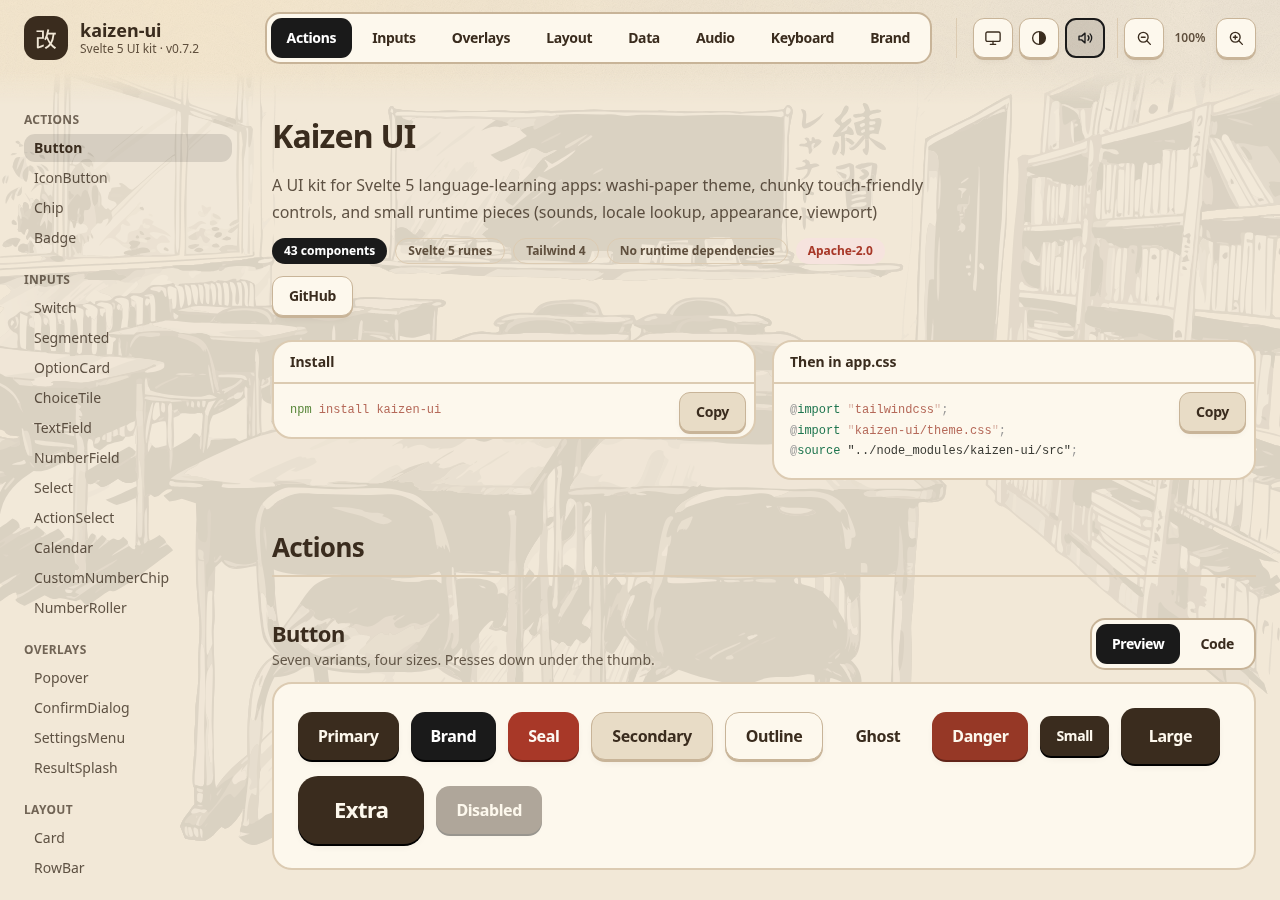
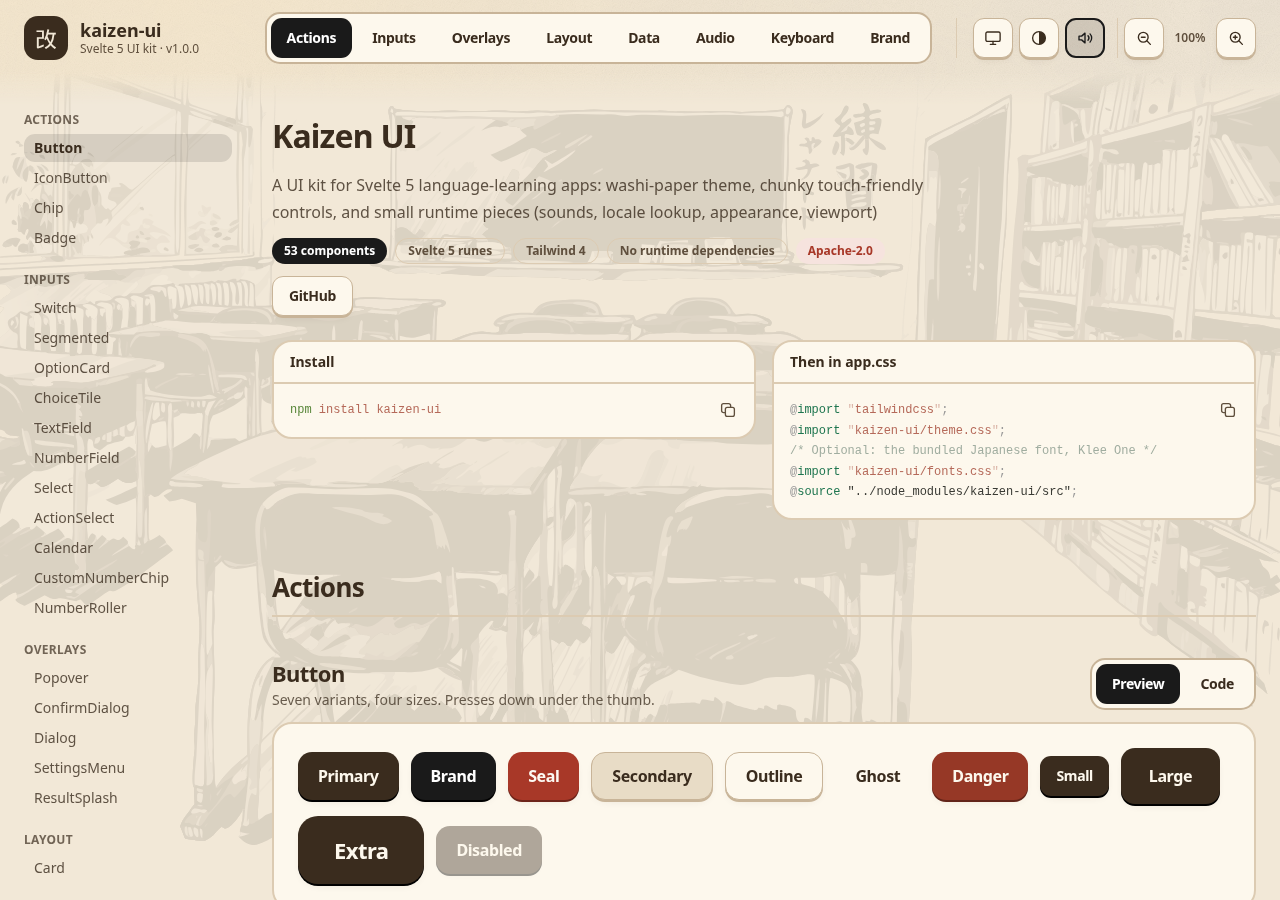
Updated docs and testcases, added new examples in docs. upodated screenshots

diff --git a/docs/src/demos/WoodTray.svelte b/docs/src/demos/WoodTray.svelte
@@ -1,33 +1,93 @@
 <script lang="ts">
-  import { Glyph, sfx, WoodTray, type TrayCell } from "kaizen-ui";
+  import { Glyph, sfx, Strokes, WoodTray, type TrayCell } from "kaizen-ui";
 
-  const pieces = ["亻", "木"];
-  let filled = $state([false, false]);
-  let selected = $state(0);
+  type Piece = { face: string; rect: TrayCell["rect"]; strokes?: string[] };
 
-  const cells = $derived<TrayCell[]>(
-    pieces.map((piece, index) => ({
-      rect: [index * 2, 0, 2, 4],
-      label: `${piece}, ${filled[index] ? "placed" : "empty"}`,
-      filled: filled[index],
-      selected: selected === index
-    }))
-  );
+  // Side by side, a split side, and an enclosure with its inner piece nested
+  // inside it: the smaller slot sits on top of the larger one.
+  // `clear` drops the highlight once the tray is full, so nothing sits over
+  // the finished glyph as it assembles.
+  const puzzles: { glyph: string; caption: string; pieces: Piece[]; clear?: boolean }[] = [
+    {
+      glyph: "休",
+      caption: "left and right",
+      pieces: [
+        { face: "亻", rect: [0, 0, 2, 4] },
+        { face: "木", rect: [2, 0, 2, 4] }
+      ]
+    },
+    {
+      glyph: "語",
+      caption: "split side, highlight clears when done",
+      clear: true,
+      pieces: [
+        { face: "言", rect: [0, 0, 2, 4] },
+        { face: "五", rect: [2, 0, 2, 2] },
+        { face: "口", rect: [2, 2, 2, 2] }
+      ]
+    },
+    {
+      glyph: "国",
+      caption: "nested",
+      pieces: [
+        // No font draws 囗 as a frame the size of the tray, so brush it.
+        {
+          face: "囗",
+          rect: [0, 0, 4, 4],
+          strokes: ["M12,12V88", "M12,12H88V88", "M12,88H88"]
+        },
+        { face: "玉", rect: [1, 1, 2, 2] }
+      ]
+    }
+  ];
 
-  function press(index: number): void {
-    filled = filled.map((value, at) => (at === index ? !value : value));
-    selected = index;
-    if (filled[index]) sfx.wood.place();
+  let filled = $state(puzzles.map((puzzle) => puzzle.pieces.map(() => false)));
+  let selected = $state(puzzles.map(() => 0));
+
+  const done = (at: number): boolean => filled[at].every(Boolean);
+
+  function cellsOf(at: number): TrayCell[] {
+    const hide = puzzles[at].clear === true && done(at);
+    return puzzles[at].pieces.map((piece, index) => ({
+      rect: piece.rect,
+      label: `${piece.face}, ${filled[at][index] ? "placed" : "empty"}`,
+      filled: filled[at][index],
+      selected: !hide && selected[at] === index
+    }));
+  }
+
+  function press(at: number, index: number): void {
+    filled[at][index] = !filled[at][index];
+    selected[at] = index;
+    if (filled[at][index]) sfx.wood.place();
     else sfx.wood.lift();
-    if (filled.every(Boolean)) sfx.wood.done();
+    if (done(at)) sfx.wood.done();
   }
 </script>
 
-<WoodTray label="休" {cells} done={filled.every(Boolean)} class="w-40" onslot={press}>
-  {#snippet cell(index)}
-    <Glyph text={pieces[index]} class="text-h2" />
-  {/snippet}
-  {#snippet glyph()}
-    <Glyph text="休" class="text-[6rem] leading-none" />
-  {/snippet}
-</WoodTray>
+<div class="flex flex-wrap items-start gap-4">
+  {#each puzzles as puzzle, at (puzzle.glyph)}
+    <figure class="flex flex-col items-center gap-2">
+      <WoodTray
+        label={puzzle.glyph}
+        cells={cellsOf(at)}
+        done={done(at)}
+        class="w-40"
+        onslot={(index) => press(at, index)}
+      >
+        {#snippet cell(index)}
+          {@const piece = puzzle.pieces[index]}
+          {#if piece.strokes}
+            <Strokes strokes={piece.strokes} viewBox="0 0 100 100" class="size-full" />
+          {:else}
+            <Glyph text={piece.face} class="text-h2" />
+          {/if}
+        {/snippet}
+        {#snippet glyph()}
+          <Glyph text={puzzle.glyph} class="text-[6rem] leading-none" />
+        {/snippet}
+      </WoodTray>
+      <figcaption class="text-xs text-foreground/75">{puzzle.caption}</figcaption>
+    </figure>
+  {/each}
+</div>

diff --git a/docs/tests/behaviour.spec.js b/docs/tests/behaviour.spec.js
@@ -202,21 +202,27 @@ test("an answer tile carries its slot number and says how the answer went", asyn
   await expect(tiles.nth(1)).toHaveClass(/opacity-40/);
 });
 
-test("fitted text shrinks as the text gets longer and never wraps", async ({ page }) => {
-  const demo = await section(page, "fittext");
-  const fitted = demo.locator("span[style*='font-size']").first();
+test("board text stays on one line while short and wraps to fit once long", async ({ page }) => {
+  const demo = await section(page, "board");
+  const fitted = demo.locator("span[lang='ja'][style*='font-size']");
+  const short = fitted.nth(0);
+  const long = fitted.nth(1);
 
-  const size = async () =>
-    Number.parseFloat(await fitted.evaluate((node) => getComputedStyle(node).fontSize));
+  const size = async (text) =>
+    Number.parseFloat(await text.evaluate((node) => getComputedStyle(node).fontSize));
+  // Inside the room the guide leaves, both ways.
+  const inside = (text) =>
+    text.evaluate(
+      (node) =>
+        node.scrollWidth <= node.clientWidth && node.offsetHeight <= node.parentElement.clientHeight
+    );
 
-  await expect(fitted).toHaveCSS("white-space", "nowrap");
-  const before = await size();
-
-  await demo.getByRole("textbox").fill("counterintuitively unabbreviated");
-  await expect.poll(size).toBeLessThan(before);
-
-  // One line, whatever the length: the box height never grows with the text.
-  await expect(fitted).toHaveCSS("white-space", "nowrap");
+  await expect(fitted).toHaveCount(2);
+  await expect(short).toHaveCSS("white-space", "nowrap");
+  await expect(long).toHaveCSS("white-space", "normal");
+  await expect.poll(() => inside(short)).toBe(true);
+  await expect.poll(() => inside(long)).toBe(true);
+  expect(await size(long)).toBeLessThan(await size(short));
 });
 
 test("a tree table group collapses and expands its rows", async ({ page }) => {
@@ -302,6 +308,32 @@ test("a wood tray fills its slots and gives way to the finished glyph", async ({
   // The slots stay pressable over the glyph, so a block can come back out.
   await tray.getByRole("button", { name: "木, placed" }).click();
   await expect(tray.locator(".anim-glyph")).toHaveCount(0);
+});
+
+test("a tray can drop its highlight once the glyph assembles", async ({ page }) => {
+  const demo = await section(page, "woodtray");
+  const tray = demo.getByRole("group", { name: "語" });
+
+  await tray.getByRole("button", { name: "言, empty" }).click();
+  await tray.getByRole("button", { name: "五, empty" }).click();
+  await expect(tray.locator("[aria-current='true']")).toHaveCount(1);
+
+  await tray.getByRole("button", { name: "口, empty" }).click();
+  await expect(tray.locator(".anim-glyph")).toHaveText("語");
+  await expect(tray.locator("[aria-current='true']")).toHaveCount(0);
+});
+
+test("a nested slot sits on top of the enclosure around it", async ({ page }) => {
+  const demo = await section(page, "woodtray");
+  const tray = demo.getByRole("group", { name: "国" });
+  const frame = tray.getByRole("button", { name: /^囗/ });
+
+  // The inner slot covers the frame's middle, so take the frame by its corner.
+  await frame.click({ position: { x: 8, y: 8 } });
+  await expect(frame).toHaveAccessibleName("囗, placed");
+
+  await tray.getByRole("button", { name: "玉, empty" }).click();
+  await expect(tray.locator(".anim-glyph")).toHaveText("国");
 });
 
 test("strokes are an image only when they carry a label", async ({ page }) => {

diff --git a/docs/src/demos/Board.svelte b/docs/src/demos/Board.svelte
@@ -1,7 +1,5 @@
 <script lang="ts">
-  import { Board, TextField } from "kaizen-ui";
-
-  let text = $state("ありがとうございます");
+  import { Board } from "kaizen-ui";
 </script>
 
 <figure class="flex flex-col items-center gap-2">
@@ -37,10 +35,11 @@
 <!-- Given text, the board sizes it itself: as large as the guide allows, on one
      line while it is short, wrapped once it is long. -->
 <figure class="flex flex-col items-center gap-2">
-  <Board size="lg" {text} jp />
-  <figcaption class="text-xs text-foreground/75">text, fitted</figcaption>
+  <Board size="lg" text="はい" jp />
+  <figcaption class="text-xs text-foreground/75">text, short</figcaption>
 </figure>
 
 <figure class="flex flex-col items-center gap-2">
-  <TextField bind:value={text} label="Board text" />
+  <Board size="lg" text="おはようございます、今日もよろしくお願いします" jp />
+  <figcaption class="text-xs text-foreground/75">text, long</figcaption>
 </figure>

diff --git a/src/components/TreeTable.svelte b/src/components/TreeTable.svelte
@@ -39,7 +39,9 @@
 {:else}
   <table class="w-full border-separate border-spacing-y-1 text-sm {className}">
     <thead>
-      <tr class="text-start text-[0.625rem] font-bold tracking-wide text-muted-foreground uppercase">
+      <tr
+        class="text-start text-[0.625rem] font-bold tracking-wide text-muted-foreground uppercase"
+      >
         <th class="py-1 ps-2 font-bold">{columns.group}</th>
         <th class="py-1 px-2 text-end font-bold">{columns.accuracy}</th>
         <th class="hidden py-1 px-2 font-bold sm:table-cell">{columns.bar}</th>
